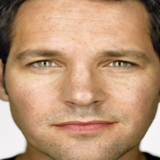
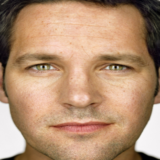
Test 19 - windows.

diff --git a/models/utils/detect_face.py b/models/utils/detect_face.py
@@ -228,4 +228,4 @@ def imresample(img, sz):
     out_shape = (sz[1], sz[0]) if resize_mod == 'cv2' else (sz[0], sz[1])
     resize_args = {'interpolation': INTER_AREA} if resize_mod == 'cv2' else {'preserve_range': True}
     im_data = resize(img, out_shape, **resize_args)
-    return np.uint8(im_data)
+    return im_data
